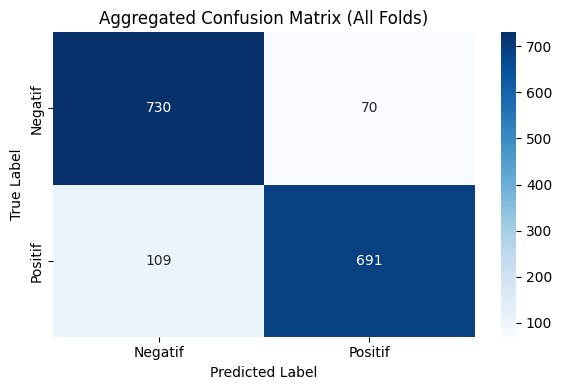
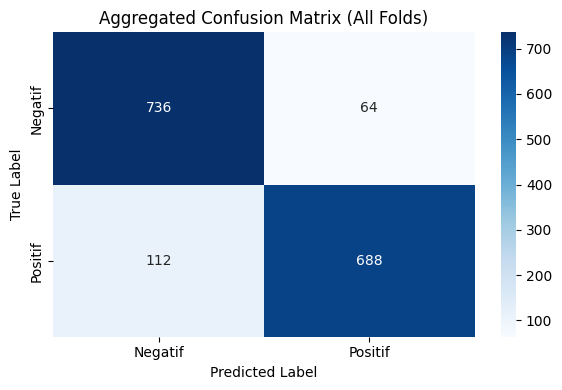
updated

diff --git a/src/components/Home.jsx b/src/components/Home.jsx
@@ -58,33 +58,38 @@ const Home = () => {
       <div className="evaluation-section">
         <h3>Overall Statistics:</h3>
         <pre>
-        Mean Accuracy: 88.81% (+/- 1.82%)
-        Mean Loss: 0.3194 (+/- 0.0455)
+        Mean Accuracy: 89.00% (+/- 2.11%)
+        Mean Loss: 0.3144 (+/- 0.0305)
         </pre>
         <h3>Average Classification Metrics Across All Folds:</h3>
         <pre>
             Negatif Class:
-            - Precision: 0.870
-            - Recall: 0.912
-            - F1-Score: 0.890
+            - Precision: 0.869
+            - Recall: 0.920
+            - F1-Score: 0.893
 
             Positif Class:
-            - Precision: 0.910
-            - Recall: 0.864
-            - F1-Score: 0.886
+            - Precision: 0.918
+            - Recall: 0.860
+            - F1-Score: 0.887
 
             Overall Macro Average:
-            - Precision: 0.890
-            - Recall: 0.888
-            - F1-Score: 0.888
+            - Precision: 0.893
+            - Recall: 0.890
+            - F1-Score: 0.890
         </pre>
-        <h3>Confusion Matrix</h3>
+        <h3>Confusion Matrix Aggregated (All Folds)</h3>
         <img
         src="/images/confusion-matrix.png"
         alt="Confusion Matrix"
         style={{ maxWidth: "100%", height: "auto" }}
         />
-
+        <h4>Confusion Matrix Average (Across Folds)</h4>
+        <img
+        src="/images/confusion-matrix-avg.png"
+        alt="Confusion Matrix"
+        style={{ maxWidth: "100%", height: "auto" }}
+        />
       </div>
     </div>
   );

diff --git a/src/style/Home.css b/src/style/Home.css
@@ -87,6 +87,15 @@
   padding-bottom: 6px;
 }
 
+.evaluation-section h4 {
+  margin-top: 32px;
+  font-size: 22px;
+  color: #ff6600;
+  border-bottom: 2px solid #ff6600;
+  display: inline-block;
+  padding-bottom: 6px;
+}
+
 .evaluation-section pre {
   background-color: #f9f9f9;
   padding: 20px;
